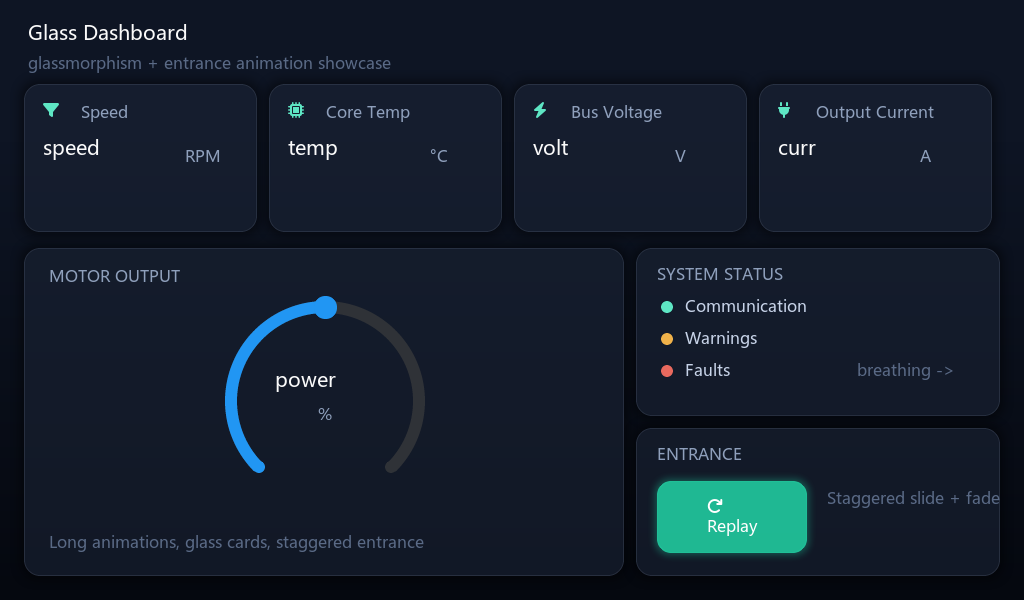
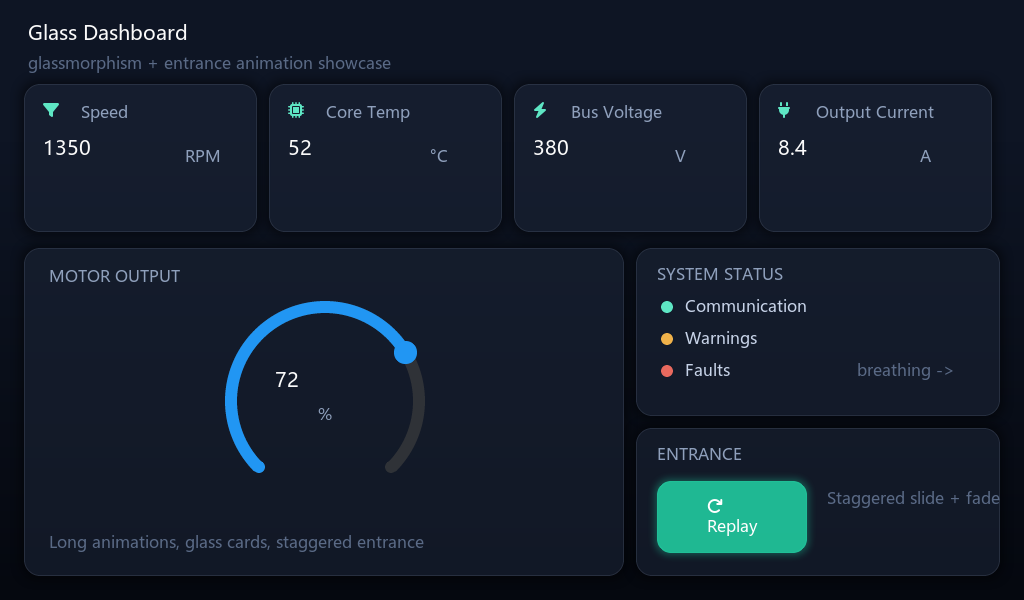
fix: evaluate design-time previewValue for bound widgets
EEZ canvas renders previewValue, not the expression — bound labels were
showing the variable NAME in the editor instead of the default value.
ir2eez now safe-evaluates bind expressions against variable defaults
(bare var / arithmetic / concat; raw-expression fallback for calls and
undeclared vars) and emits previewValue for label, textarea, arc and
bar/slider. Explicit IR 'preview' field wins. Variables accept
default/value/init aliases.

Verified on glass dashboard: canvas shows 1350/52/380/8.4/72, check 0/0.
Screenshot and SKILL/IR_SCHEMA updated with the pre-screenshot checklist.

diff --git a/ir2eez.py b/ir2eez.py
@@ -30,6 +30,7 @@ from __future__ import annotations
 import argparse
 import copy
 import json
+import re
 import sys
 import uuid
 from pathlib import Path
@@ -164,7 +165,14 @@ class VarCollector:
             vtype = need_str("variables[].type", v.get("type"), "string")
             if vtype not in ("integer", "float", "double", "boolean", "string"):
                 fail(f"variables[{name!r}].type", f"unsupported type {vtype!r}")
+            # accept common aliases so a mistyped field doesn't silently zero
+            # the default (design-time preview + simulator show variable
+            # defaults). 别名兼容：字段名写错不该静默变成 0。
             default = v.get("default")
+            if default is None:
+                default = v.get("value")
+            if default is None:
+                default = v.get("init")
             if default is None:
                 default = {"string": '""', "integer": "0", "float": "0",
                            "double": "0", "boolean": "false"}[vtype]
@@ -412,14 +420,61 @@ class Compiler:
         self.vars.infer(var, vtype, default)
         return prop, var
 
+    def _preview(self, expr: str) -> str:
+        """Design-time preview: EEZ renders previewValue on the canvas, NOT the
+        expression (that one only evaluates at runtime). Substitute variable
+        defaults and safe-eval arithmetic/concatenation; on anything we can't
+        resolve (unknown identifiers, function calls) fall back to the raw
+        expression text. 设计时画布渲染的是 previewValue：用变量默认值求值，求不动就原样回退。"""
+        expr = expr.strip()
+        if not expr:
+            return ""
+
+        def fmt(v: Any) -> str:
+            if v is True:
+                return "true"
+            if v is False:
+                return "false"
+            if isinstance(v, float) and v.is_integer():
+                return str(int(v))
+            return str(v)
+
+        # bare variable name → its default (numbers/bools pass through,
+        # quoted strings get unquoted for display)
+        if expr in self.vars.vars:
+            d = self.vars.vars[expr]["defaultValue"]
+            if len(d) >= 2 and d[0] == '"' and d[-1] == '"':
+                return json.loads(d)
+            return d
+
+        ids = set(re.findall(r"[A-Za-z_][A-Za-z0-9_]*", expr))
+        if not ids or ids - set(self.vars.vars) - {"true", "false"}:
+            return expr
+        sub = re.sub(
+            r"[A-Za-z_][A-Za-z0-9_]*",
+            lambda m: (self.vars.vars[m.group(0)]["defaultValue"]
+                       if m.group(0) in self.vars.vars else
+                       ("True" if m.group(0) == "true" else "False")),
+            expr,
+        )
+        # After the identifier gate only numbers, operators, parens and quoted
+        # string contents remain, so attribute access / names are impossible —
+        # eval() here is arithmetic + concatenation only. 标识符门禁后只剩数字/
+        # 运算符/括号/字符串字面量，eval 只可能做算术和拼接。
+        try:
+            return fmt(eval(sub, {"__builtins__": {}}, {}))  # noqa: S307
+        except Exception:
+            return expr
+
     def _build_label(self, n: dict, p: str, x: int, y: int, w: int, h: int) -> dict:
         obj = self.base("LVGLLabelWidget", n, p, x, y, w, h)
         obj["localStyles"] = self.styles_for(n, p)
         bind = self._bind(n, p, "label")
         if bind:
             obj["text"], obj["textType"] = bind[1], "expression"
-            obj["previewValue"] = str(n.get("preview", bind[1]))
-            text = str(n.get("preview", bind[1]))
+            preview = str(n.get("preview") or self._preview(bind[1]))
+            obj["previewValue"] = preview
+            text = preview
         else:
             obj["text"] = need_str(f"{p}.text", n.get("text"), "Label")
             obj["textType"] = "literal"
@@ -495,6 +550,7 @@ class Compiler:
         bind = self._bind(n, p, "bar")
         if bind:
             obj["value"], obj["valueType"] = bind[1], "expression"
+            obj["previewValue"] = str(n.get("preview") or self._preview(bind[1]))
             obj["valueStart"] = 0
             obj["valueStartType"] = "literal"
         else:
@@ -526,7 +582,7 @@ class Compiler:
         bind = self._bind(n, p, "textarea")
         if bind:
             obj["text"], obj["textType"] = bind[1], "expression"
-            obj["previewValue"] = str(n.get("preview", ""))
+            obj["previewValue"] = str(n.get("preview") or self._preview(bind[1]))
         else:
             obj["text"] = need_str(f"{p}.text", n.get("text"), "")
             obj["textType"] = "literal"
@@ -607,6 +663,7 @@ class Compiler:
         bind = self._bind(n, p, "arc")
         if bind:
             obj["value"], obj["valueType"] = bind[1], "expression"
+            obj["previewValue"] = str(n.get("preview") or self._preview(bind[1]))
         else:
             obj["value"] = need_int(f"{p}.value", n.get("value"), 25)
             obj["valueType"] = "literal"

diff --git a/examples/glass/make_glass.py b/examples/glass/make_glass.py
@@ -168,14 +168,14 @@ entrance_steps = [
 ir = {
     "project": {"name": "glass", "width": W, "height": H, "font": "demo_16"},
     "variables": [
-        {"name": "speed", "type": "integer", "value": 1350},
-        {"name": "temp", "type": "integer", "value": 52},
-        {"name": "volt", "type": "integer", "value": 380},
-        {"name": "curr", "type": "double", "value": 8.4},
-        {"name": "power", "type": "integer", "value": 72},
-        {"name": "heartbeat", "type": "integer", "value": 255},
-        {"name": "warning", "type": "integer", "value": 0},
-        {"name": "fault", "type": "integer", "value": 0},
+        {"name": "speed", "type": "integer", "default": 1350},
+        {"name": "temp", "type": "integer", "default": 52},
+        {"name": "volt", "type": "integer", "default": 380},
+        {"name": "curr", "type": "double", "default": 8.4},
+        {"name": "power", "type": "integer", "default": 72},
+        {"name": "heartbeat", "type": "integer", "default": 255},
+        {"name": "warning", "type": "integer", "default": 0},
+        {"name": "fault", "type": "integer", "default": 0},
     ],
     "widgets": [],
     "screens": [

diff --git a/IR_SCHEMA.md b/IR_SCHEMA.md
@@ -50,9 +50,12 @@ python ir2eez.py <input.ir.json> -o <output.eez-project>
 固件里 `set_var_led_wifi(255)` 点亮 / `set_var_led_bt(80)` 变暗，
 所有页面实例化的 NavBar 里的 LED 会随 tick 自动刷新（一处改，处处变）。
 
+**设计时预览（design-time preview）**：EEZ 画布渲染的是 `previewValue`，不是表达式本身（表达式只在运行时求值）。编译器用变量默认值对 bind 表达式做安全求值写入 previewValue：裸变量 → 默认值；算术/字符串拼接可求则求；求不动（函数调用、未声明变量）原样回退。节点上的 `preview` 字段可显式覆盖。**截图比对前先确认变量 default 正确**，否则画布上显示的是变量名而不是数值。
+
 ## variables
 
 - `type`: `integer` `float` `double` `boolean` `string`
+- `default` 接受别名 `value` / `init`（字段写错不会静默变成 0）
 - `native: true`（默认）→ 生成 `get_var_xxx()` / `set_var_xxx()` extern 声明，**变量本体在固件 C 里实现**
 - string 的 default 直接写 `"Home"`（编译成 EEZ 表达式 `"\"Home\""`）
 - 被 `bind` 引用但未声明的变量自动按上表推断声明

diff --git a/SKILL.md b/SKILL.md
@@ -120,6 +120,11 @@ font_tool.py compile --src fonts/msyh.ttf --name <名>_<字号> --size <字号> 
 - IR 修改策略：小改动用内置 edit（手术式），大改动用 eez_write_ir（全量重写）
 - 交付后说明验证点（哪些效果要上设备看）
 
+## 截图比对前必查：变量 default
+
+- 绑定 label 的**设计时画布渲染 previewValue**（编译器按变量默认值求值），不是运行时表达式——`default` 没写对，截图里显示的就是变量名或 0，视觉比对必然误报
+- 截图前核对 IR `variables` 的 `default` 与期望显示值一致（别名 `value`/`init` 也接受，但别混用）
+
 ## 变量运行时语义
 
 - `native: true` 变量：固件实现 `get_var_xxx()/set_var_xxx()`
